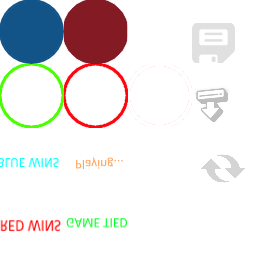
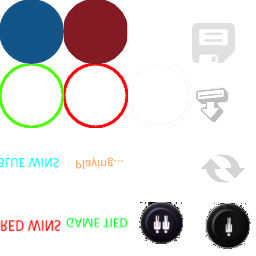
Added: AI

Changed region(s): [[0.7812, 0.7812, 1.0, 1.0], [0.5312, 0.7812, 0.7188, 0.9688]]

diff --git a/src/engine/ArtificialIntelligence.java b/src/engine/ArtificialIntelligence.java
@@ -1,0 +1,72 @@
+package engine;
+
+import engine.ChipColor.Color;
+
+//AI IS ALWAYS BLUE
+public class ArtificialIntelligence {
+	
+	public static int getMove(Chip[][] chips)
+	{
+        int moveToMake = -1;
+		//Check if I can win in 1 move
+        try {
+            outer:
+            for (int i = 0; i < chips.length; i++) {
+                for (int j = 0; j < chips[0].length; j++) {
+                    //Check Horizontal
+                    for (int k = 1; k <= 3; ++k)
+                        if (chips[i + k][j].getColor() != Color.RED)
+                            break outer;
+                    //If i get to here, there should be 3 in a row, so return the next column
+                    return i + 3;
+                }
+            }
+        } catch (Exception e) {}
+        return (int)Math.random()*7;
+
+
+
+//                //Check Vertical
+//                for (int k = 1; k < 3; ++k)
+//                    if (chips[i + k * 0][j + k * 1].getColor() != Color.BLUE)
+//                        break;
+//                //Check Diagonal Up
+//                for (int k = 1; k < 3; ++k)
+//                    if (chips[i + k * 1][j + k * 1].getColor() != Color.BLUE)
+//                        break;
+//                //Check Diagonal Down
+//                for (int k = 1; k < 3; ++k)
+//                    if (chips[i + k * 1][j + k * -1].getColor() != Color.BLUE)
+//                        break;
+//
+//            }
+//       }
+
+        //return 0;
+	}
+
+    private static int  checkThree(Chip[][] chips, int x, int y)
+    {
+
+        return 0;
+    }
+	
+	private static void p(Chip[][]chips)
+	{
+		for (int i = chips[0].length-1; i >= 0; i--)
+		{
+			for(int y = 0; y < chips.length-1; y++)
+			{
+				if (chips[y][i] == null)
+					System.out.print("_ ");
+				else if (chips[y][i].getColor() == Color.BLUE)
+					System.out.print("B ");
+				else if (chips[y][i].getColor() == Color.RED)
+					System.out.print("R ");
+			}
+			System.out.println();
+		}
+		System.out.println("%%%%%%%%%%%%%%%%%%%%%%%%%%%%%%%%%%%%%");
+	}
+
+}

diff --git a/src/engine/GameBoard.java b/src/engine/GameBoard.java
@@ -14,6 +14,7 @@ public class GameBoard
 	
 	//Declare Variables & Objects
 	private boolean isRed = false;
+	private boolean isAI = true;
 	
 	private Chip [][] chips;	//Array to Hold Chips in GameBoard
 
@@ -35,7 +36,20 @@ public class GameBoard
 		Point mousePos = MouseInput.getMousePosition();
 		
 		//Check Columns for Clicks
-		if(Logic.checkWin(chips) == null)
+		
+		if(isAI && !isRed && Logic.checkWin(chips) == null)
+		{
+			try 
+			{
+				Thread.sleep(200);
+			}
+			catch (InterruptedException e) {}
+			int colToMove = ArtificialIntelligence.getMove(chips);
+			if (addChip(chips, colToMove, ChipColor.Color.BLUE))
+				isRed = true;
+		}
+		
+		else if(Logic.checkWin(chips) == null)
 		{
 			for(int x = 0; x < chips.length; x++)
 			{
@@ -55,6 +69,7 @@ public class GameBoard
 				}
 			}
 		}
+		
 		
 		//Check Reset Click
 		if((mousePos.getY() > 8 * 64 && mousePos.getY() < 9 * 64) && (mousePos.getX() > 4 * 64 && mousePos.getX() < 5 * 64) && MouseInput.isClicked())

diff --git a/src/engine/View.java b/src/engine/View.java
@@ -13,6 +13,10 @@ public class View {
 		sheet.draw(0, 0, 0, 0);
 		sheet.draw(64*8, 0, 1, 0);
 		
+		//Draw Single/Multiplayer Buttons
+		sheet.draw(64*2, 0, 3, 3);
+		sheet.draw(64*6, 0, 2, 3);
+		
 		//Draw Save Button
 		sheet.draw(0, 64*8, 3, 0);
 		
